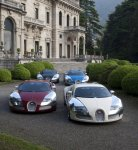
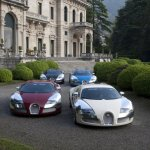
upload_image_fixed_resize

diff --git a/testdrive/protected/models/Photo.php b/testdrive/protected/models/Photo.php
@@ -80,8 +80,8 @@ class Photo extends CFormModel
 					  'prif'=>'big_'
 					),
 				 "full_img"=>array(
-					  0=>1024,
-					  1=>786,
+					  0=>786,
+					  1=>1024,
 					  'prif'=>'full_'
 					),
 				);
@@ -141,10 +141,14 @@ class Photo extends CFormModel
 		
          $img = Yii::app()->imagemod->load($image);
          //определение конечно высоты и ширины
-         $img->image_resize          = true;
+         /*$img->image_resize          = true;
 		 $img->image_ratio_x         = true;
+		 $img->image_y               = $this->infIMG($type, 1);*/
+		 		 
+		 $img->image_resize          = true;
+		 $img->image_ratio_crop      = true;
 		 $img->image_y               = $this->infIMG($type, 1);
-		 
+		 $img->image_x 				 = $this->infIMG($type, 1);
 		 
          
          /*$img->image_resize =true;
